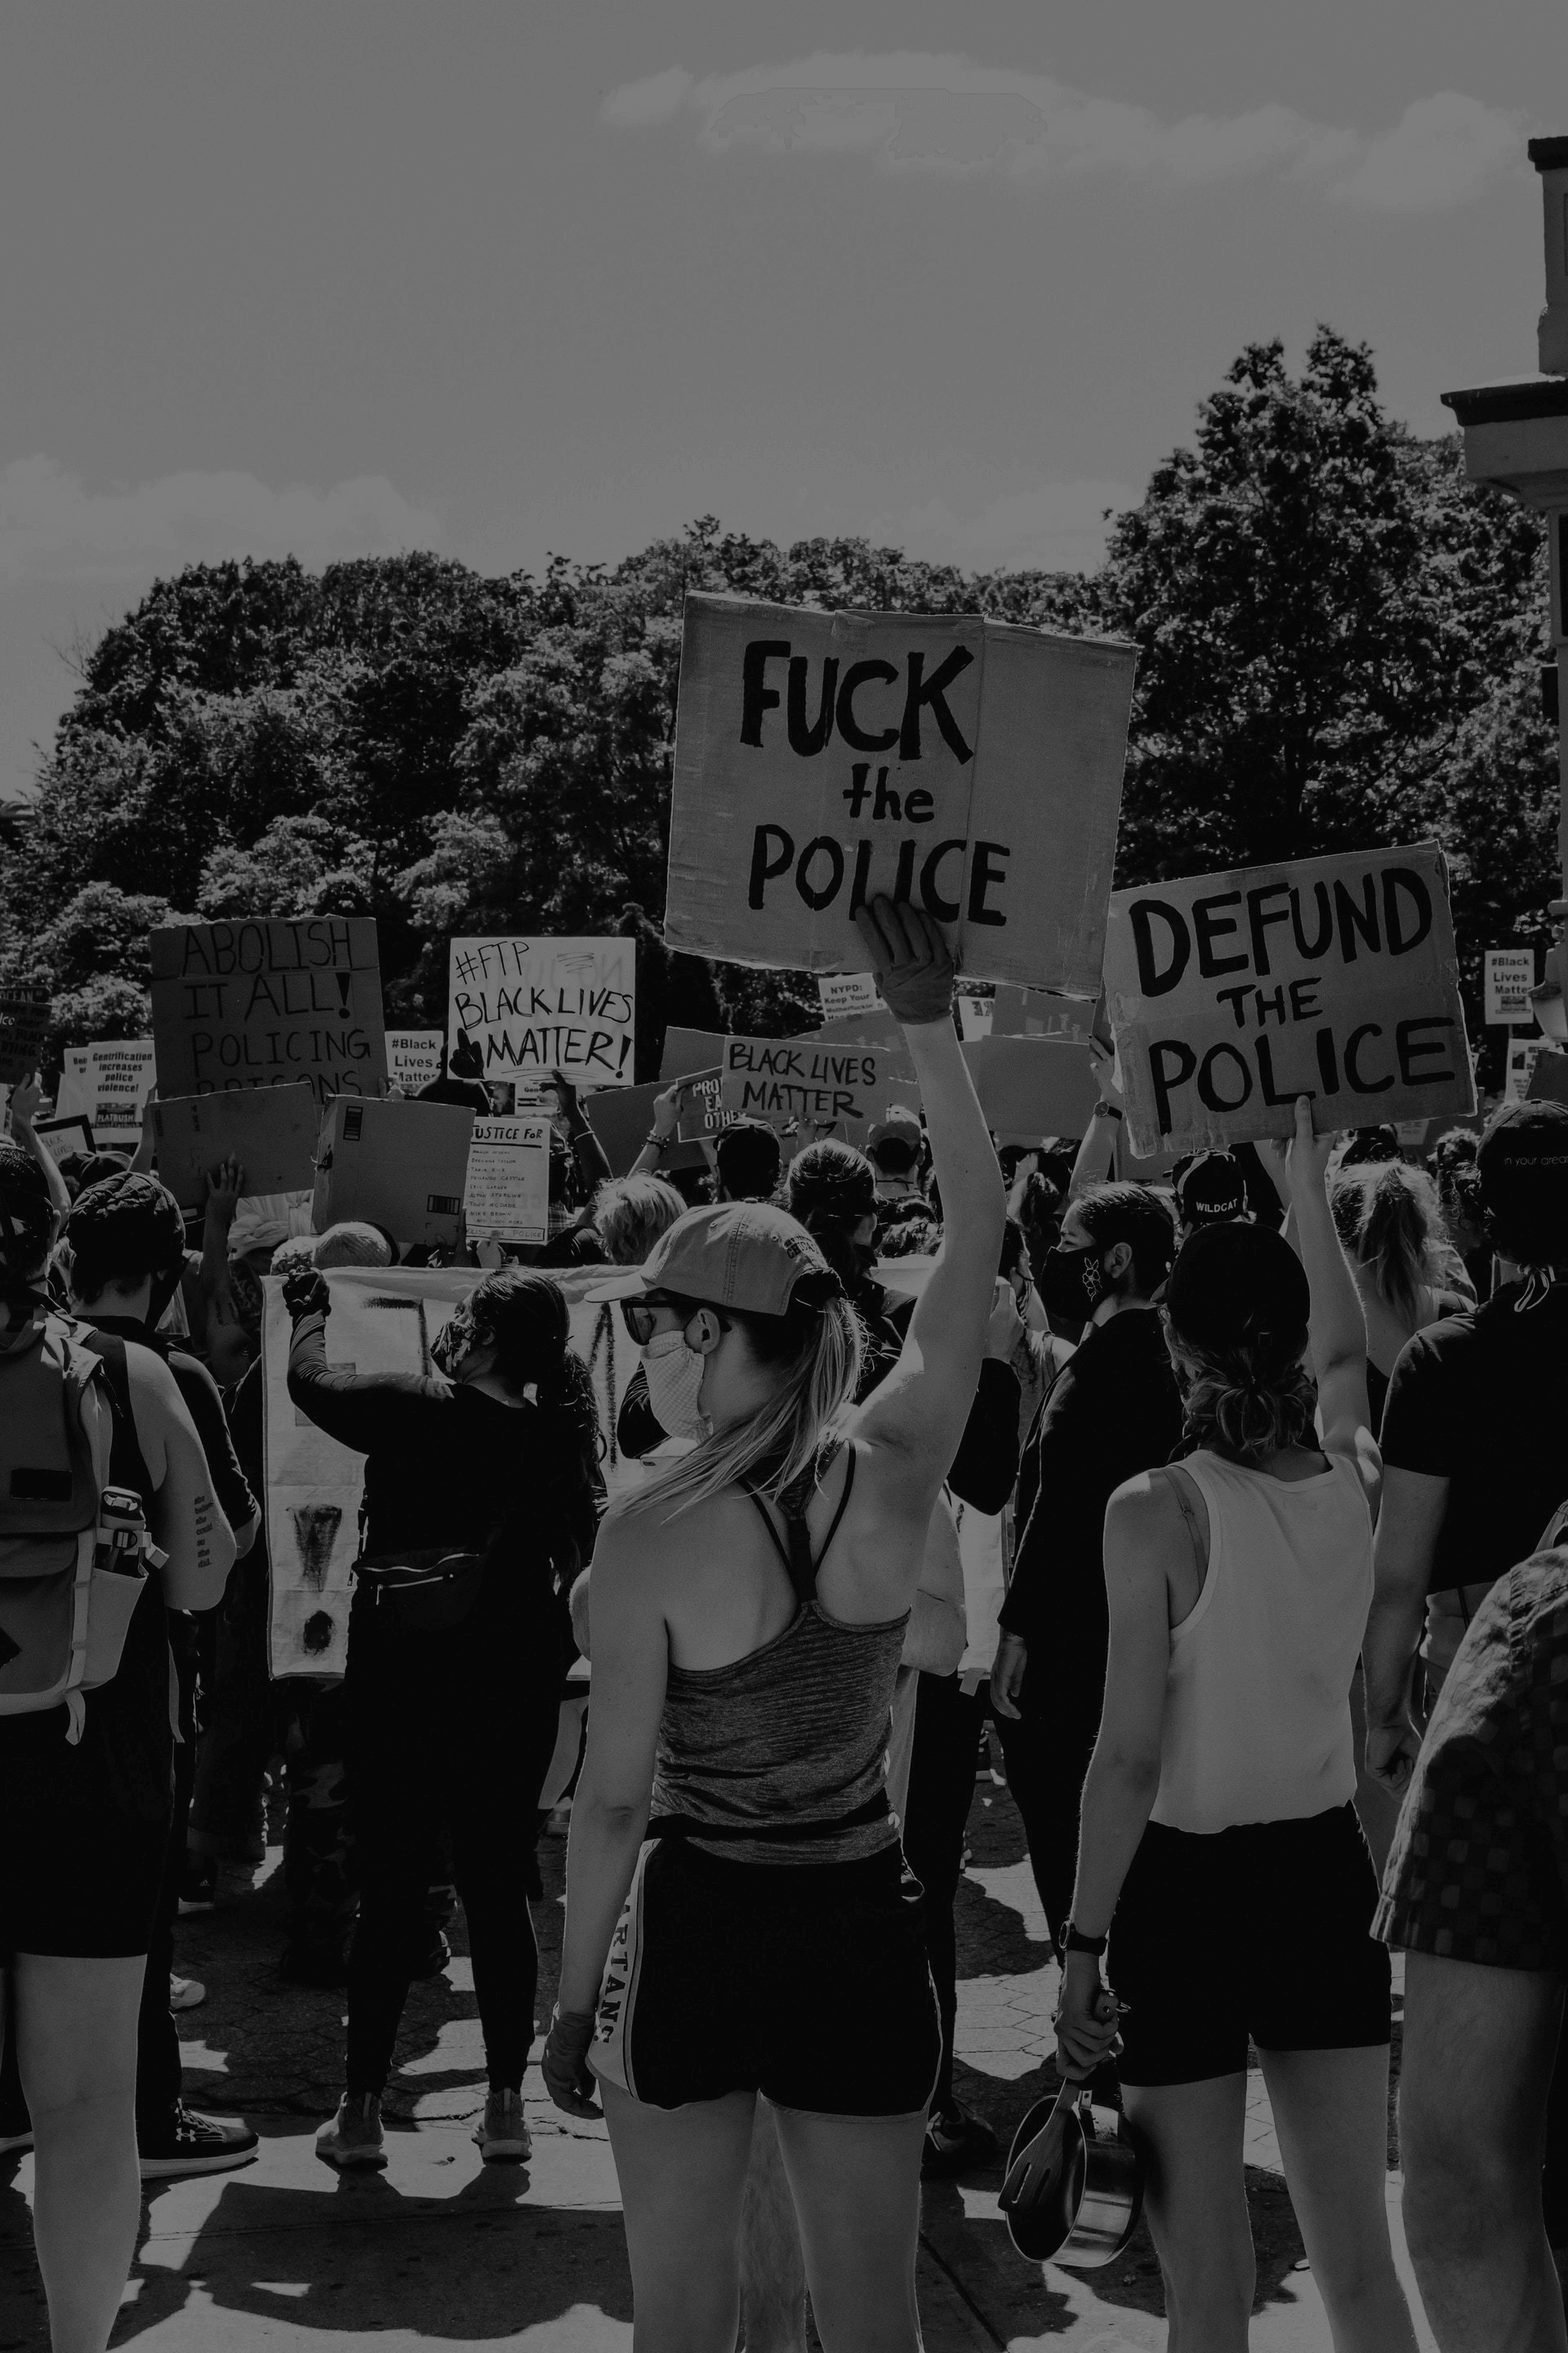
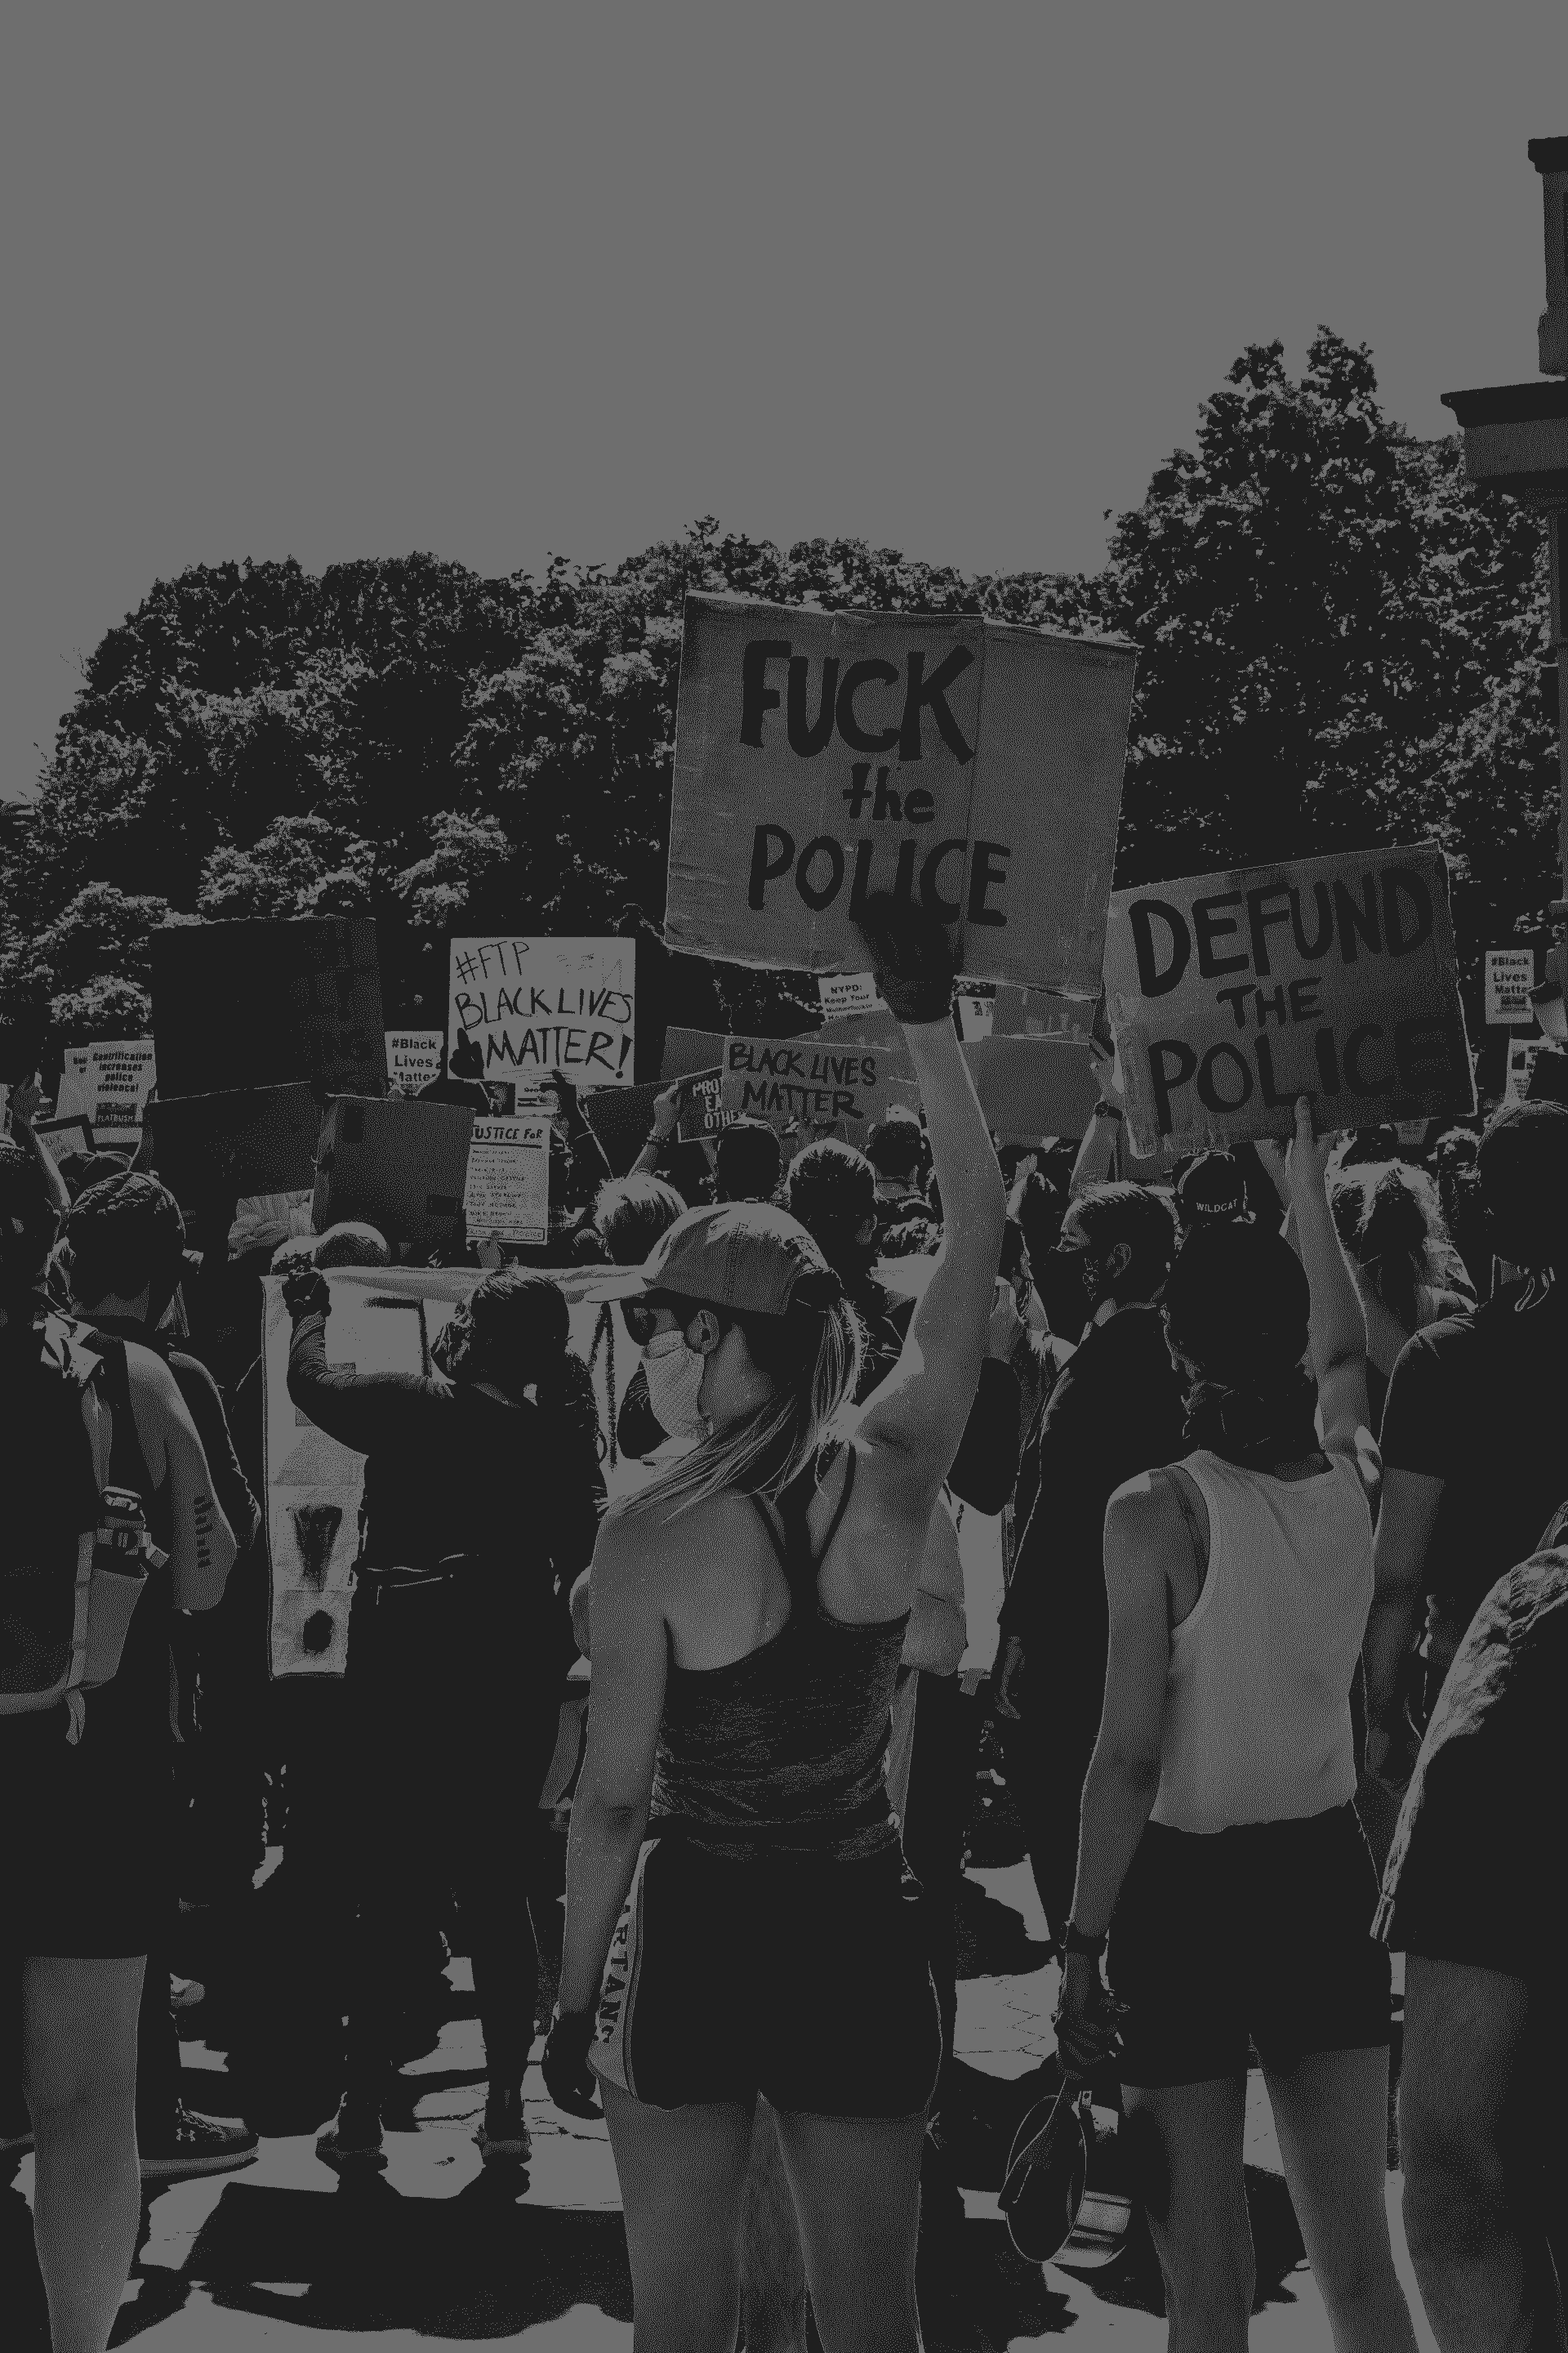
style changes
-Added bottom padding to nav horizontal line
-Compressed landing page image (compression coincidentally matches the style of the posters)
-Renamed .our-mission class to .text-body (used acriss site for all body text content)

diff --git a/assets/css/header.css b/assets/css/header.css
@@ -248,6 +248,7 @@
   background-size: 0 130%;
   -webkit-transition: background-size .2s ease;
   transition: background-size .2s ease;
+  padding-bottom: 10px;
 }
 
 .header nav ul.nav a:hover {
@@ -263,9 +264,16 @@
   background-image: linear-gradient(180deg, transparent 65%, white 0);
   background-repeat: no-repeat;
   background-size: 100% 130%;
+  padding-bottom: 10px;
 }
+
+header nav ul.nav .nav-donate a:hover, .header nav ul.nav .nav-donate {
+ padding-bottom: 0px;
+    }
 
 .header nav ul.nav .nav-donate a:hover, .header nav ul.nav .nav-donate.nav-current a {
     background-size: 0 130%;
+    padding-bottom: 0px;
+}
   }
   

diff --git a/assets/css/style.css b/assets/css/style.css
@@ -914,18 +914,18 @@ color:white !important;
     }
 }
 
-.our-mission {
+.text-body {
+    padding: 100px;
     font-size:40px;
-    margin-top: 30px;
     text-align: center;
     font-family: 'Open Sans', sans-serif;
 
 }
 
 @media screen and (max-width: 600px) {
-    .our-mission{
+    .text-body{
+        padding: 50px;
         font-size:20px;
-        margin-top: 20px;
         text-align: center;
         font-family: 'Open Sans', sans-serif;
 

diff --git a/assets/css/hero.css b/assets/css/hero.css
@@ -49,7 +49,6 @@
     width: 100%;
     /*height: fit-content;*/
     /*min-height: 550px;*/
-    margin-bottom: 100px;
     justify-content: center;
     margin-top: 100px;
     background-color: white;
